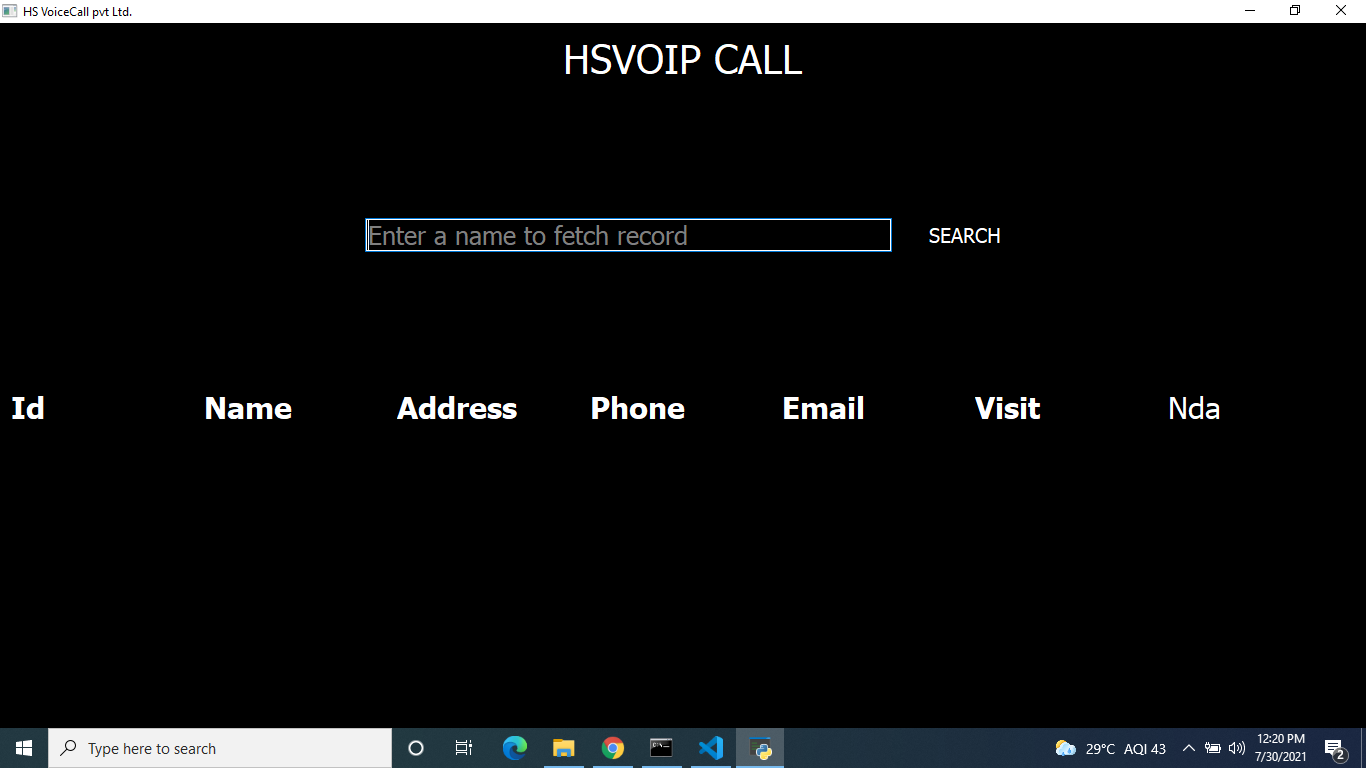
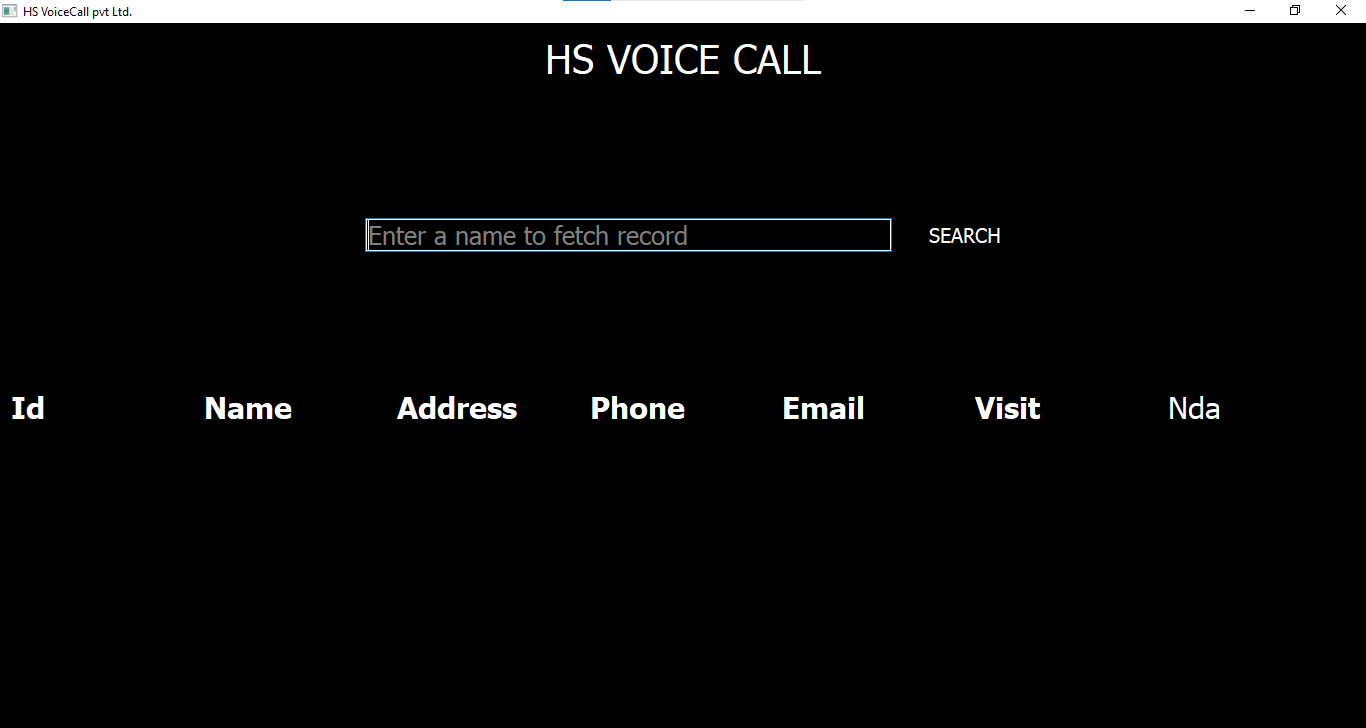
Updated text

diff --git a/Program2.py b/Program2.py
@@ -11,7 +11,7 @@ class Window(QWidget):
         self.setStyleSheet("background-color: black")
         self.setWindowTitle("HS VoiceCall pvt Ltd.")
         
-        self.company_name = QLabel("HSVOIP CALL")
+        self.company_name = QLabel("HS VOICE CALL")
         self.company_name.setStyleSheet("color: white; font-size: 40px")
         self.company_name.setAlignment(Qt.AlignHCenter)
         vbox = QVBoxLayout()
